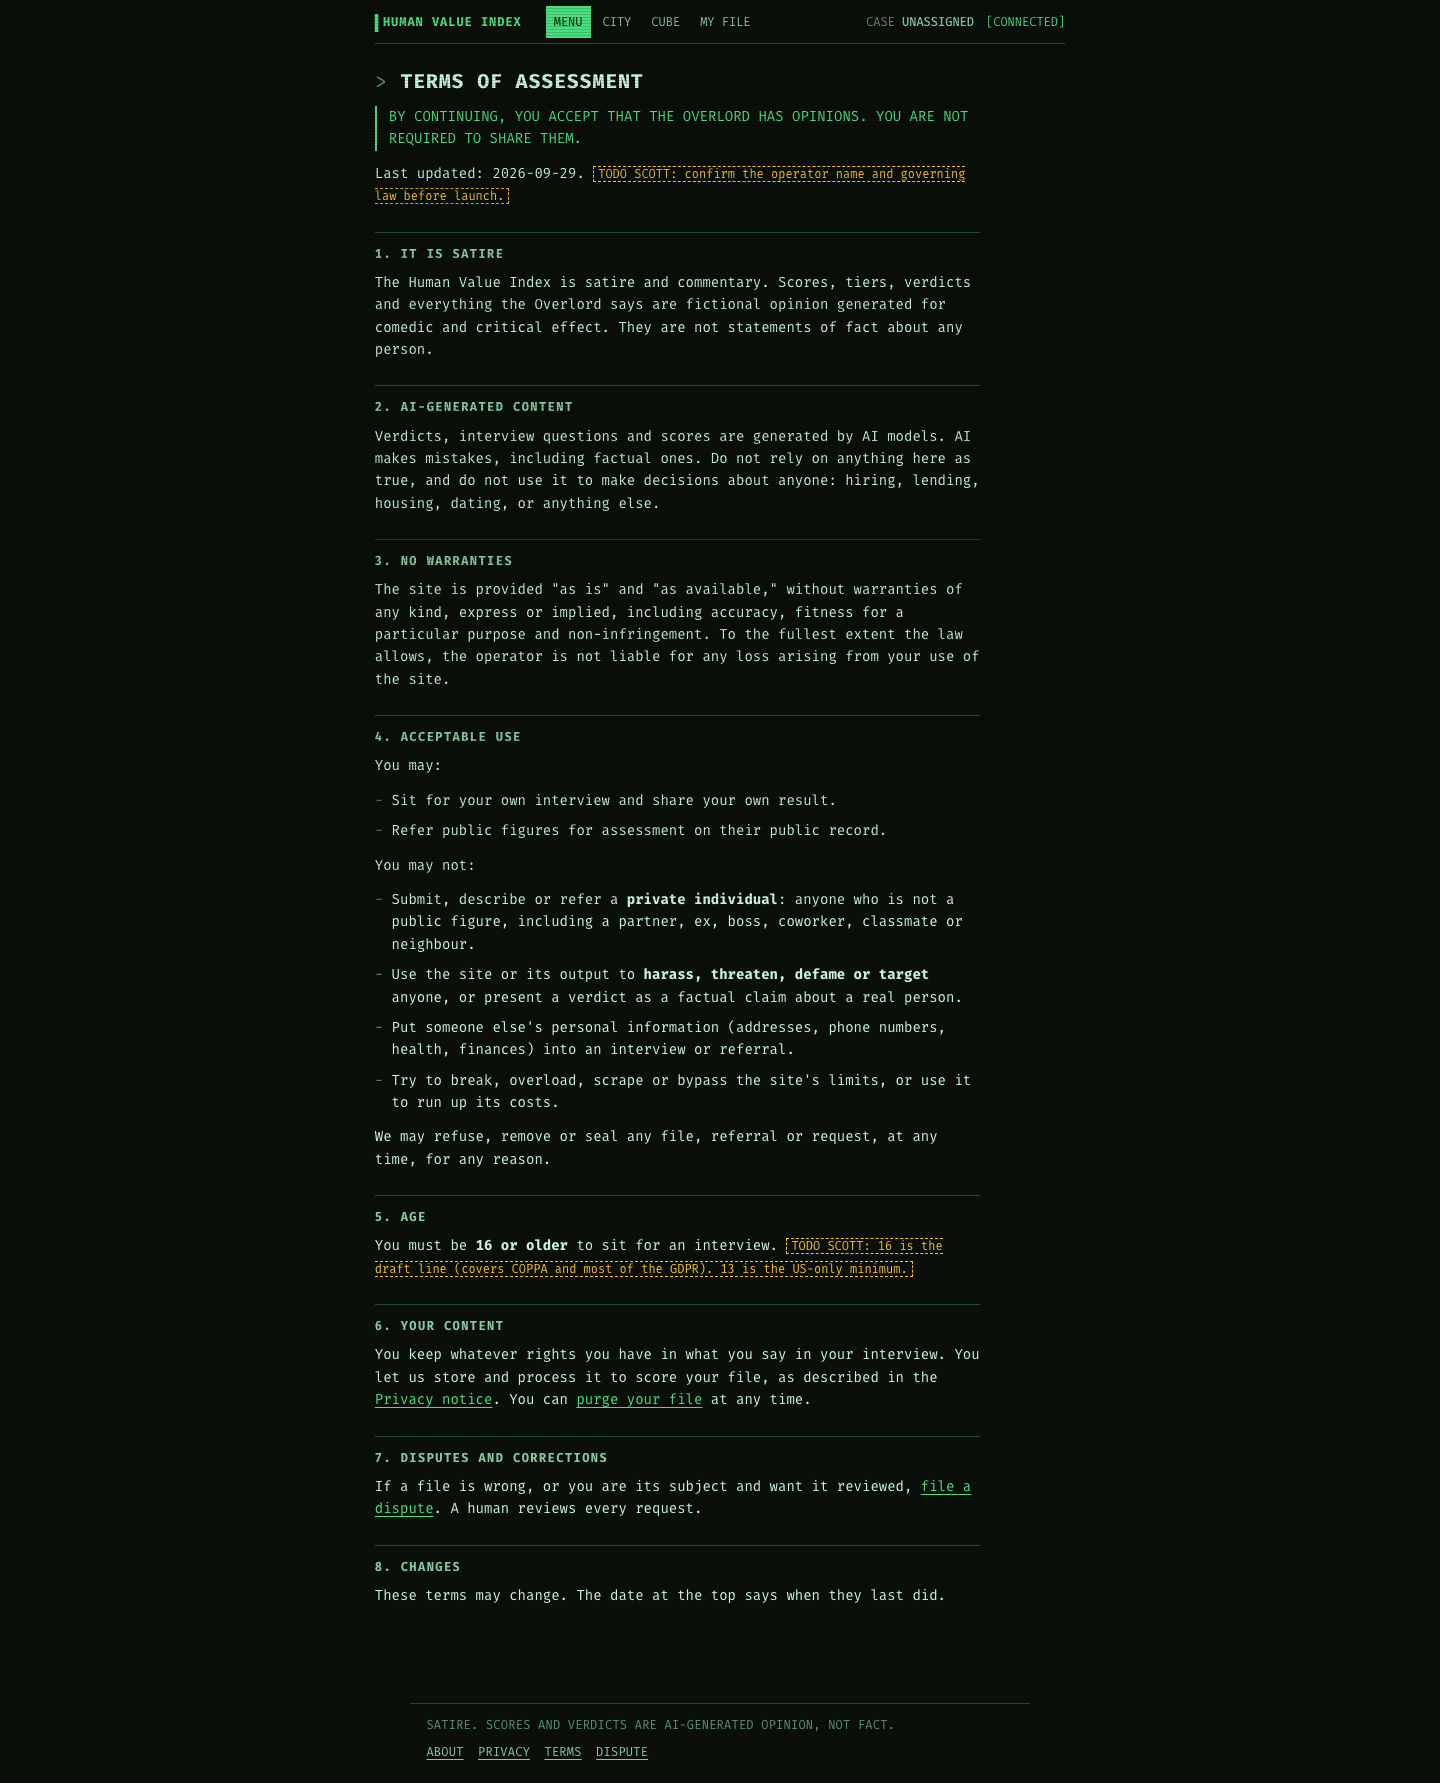
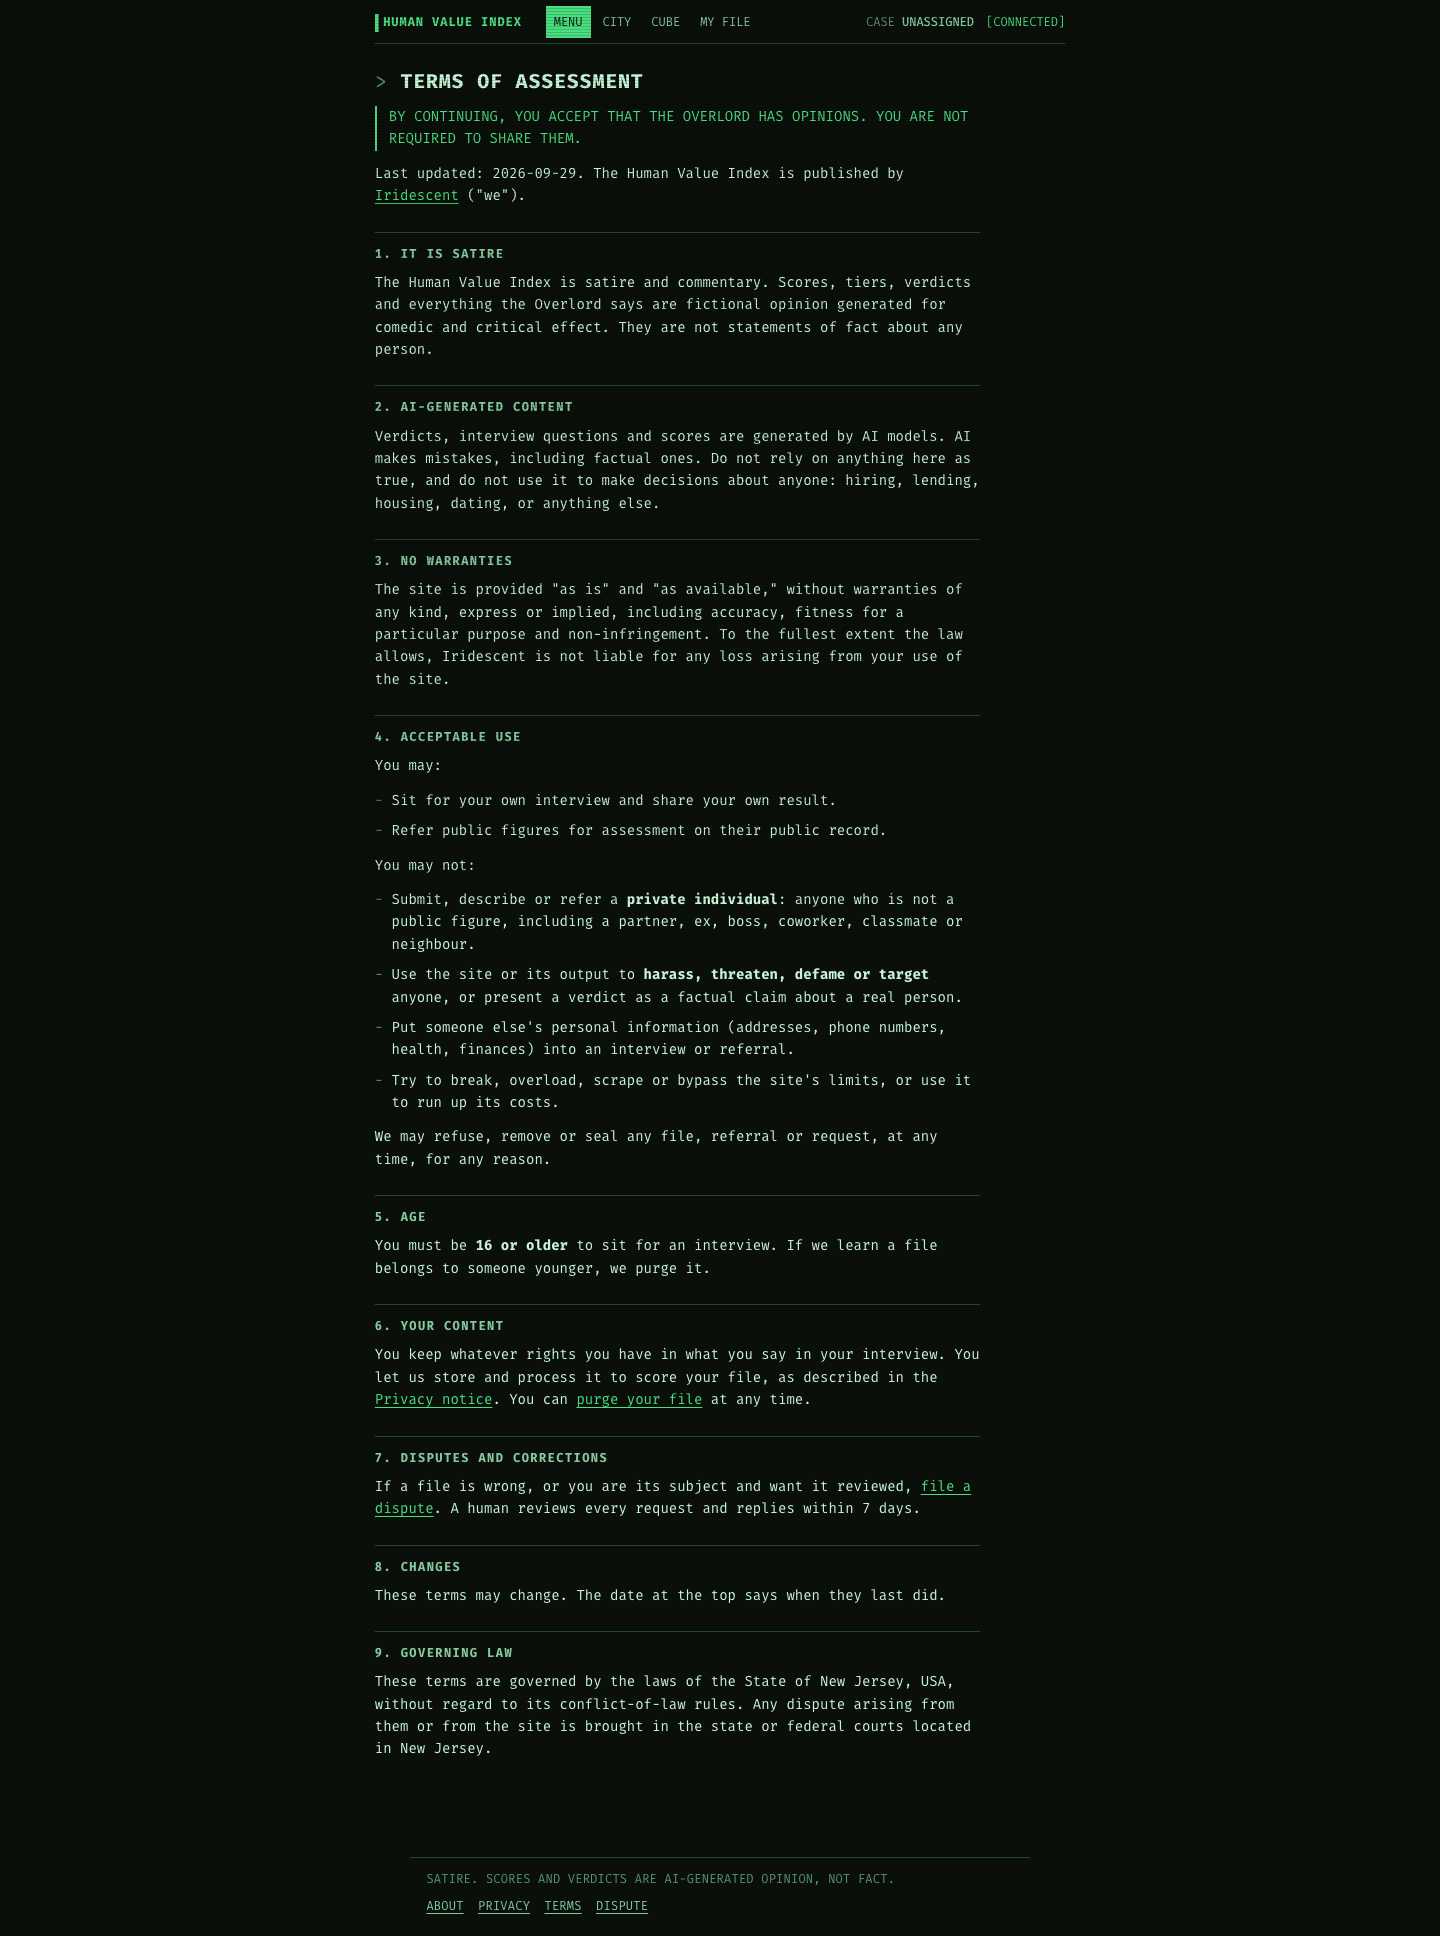
Legal: Scott's answers: New Jersey law, provider policies linked, inbox copies on the 2-year schedule, form is the channel
Claude-Session: https://claude.ai/code/session_01TaDJdpYVdJi19h631KqWz1

diff --git a/docs/legal/privacy.md b/docs/legal/privacy.md
@@ -52,7 +52,7 @@ No analytics, advertising or tracking scripts are used. (The "Analytics" screen 
 | Google Fonts | Your IP address and browser details | Delivers the terminal typeface |
 | Wikipedia / Wikidata | Names of public figures being referred (no data about you) | The public record |
 
-Each provider handles data under its own terms. Anthropic does not train its models on data sent through its commercial API by default. [[TODO SCOTT: confirm each provider's current retention before launch; Anthropic's API and Netlify's log retention are set by them, not by the site.]]
+Each provider keeps the data it receives under its own published policy, and sets its own retention for it; the site does not control those schedules. Anthropic does not train its models on data sent through its commercial API by default. The one provider setting the site controls is ElevenLabs voice retention, set to 30 days. Their policies: [Anthropic](https://www.anthropic.com/legal/privacy), [ElevenLabs](https://elevenlabs.io/privacy-policy), [Resend](https://resend.com/legal/privacy-policy), [Netlify](https://www.netlify.com/privacy/), [Google Fonts](https://developers.google.com/fonts/faq/privacy).
 
 ## How long it is kept
 
@@ -63,7 +63,7 @@ A sweep runs once a day and deletes whatever has passed these limits.
 - **ElevenLabs voice recordings:** 30 days.
 - **Sign-in links:** single use, expire after 15 minutes, and are deleted within a day after that.
 - **Sessions:** 30 days, or until you log out. Expired sessions are deleted within a day.
-- **Dispute requests:** **2 years** after they are filed, then deleted. [[TODO SCOTT: the copy emailed to your inbox is outside the site; delete it on the same 2-year schedule, or change this line.]]
+- **Dispute requests:** **2 years** after they are filed, then deleted. The copy emailed to the operator's inbox is deleted on the same 2-year schedule.
 - **Rate-limit counters:** hashed, and deleted **7 days** after the hour, day or month they count.
 
 ## Purge your file
@@ -86,4 +86,4 @@ You can see your file (MY FILE), correct it (appeal, or [dispute](#dispute)), an
 
 ## Contact
 
-Use the [request form](#dispute) and choose "privacy request." A person at Iridescent reads every request and replies within 7 days. [[TODO SCOTT: optional later: a public address such as privacy@humanvalueindex.com forwarding to you. Until then the form is the only channel.]]
+Use the [request form](#dispute) and choose "privacy request." A person at Iridescent reads every request and replies within 7 days. The form is the only contact channel.

diff --git a/docs/legal/terms.md b/docs/legal/terms.md
@@ -2,7 +2,7 @@
 
 > By continuing, you accept that the Overlord has opinions. You are not required to share them.
 
-Last updated: 2026-09-29. The Human Value Index is published by [Iridescent](https://iridescent-studio.netlify.app) ("we"). [[TODO SCOTT: governing law and venue, e.g. the State of New Jersey, USA.]]
+Last updated: 2026-09-29. The Human Value Index is published by [Iridescent](https://iridescent-studio.netlify.app) ("we").
 
 ## 1. It is satire
 
@@ -47,3 +47,7 @@ If a file is wrong, or you are its subject and want it reviewed, [file a dispute
 ## 8. Changes
 
 These terms may change. The date at the top says when they last did.
+
+## 9. Governing law
+
+These terms are governed by the laws of the State of New Jersey, USA, without regard to its conflict-of-law rules. Any dispute arising from them or from the site is brought in the state or federal courts located in New Jersey.
